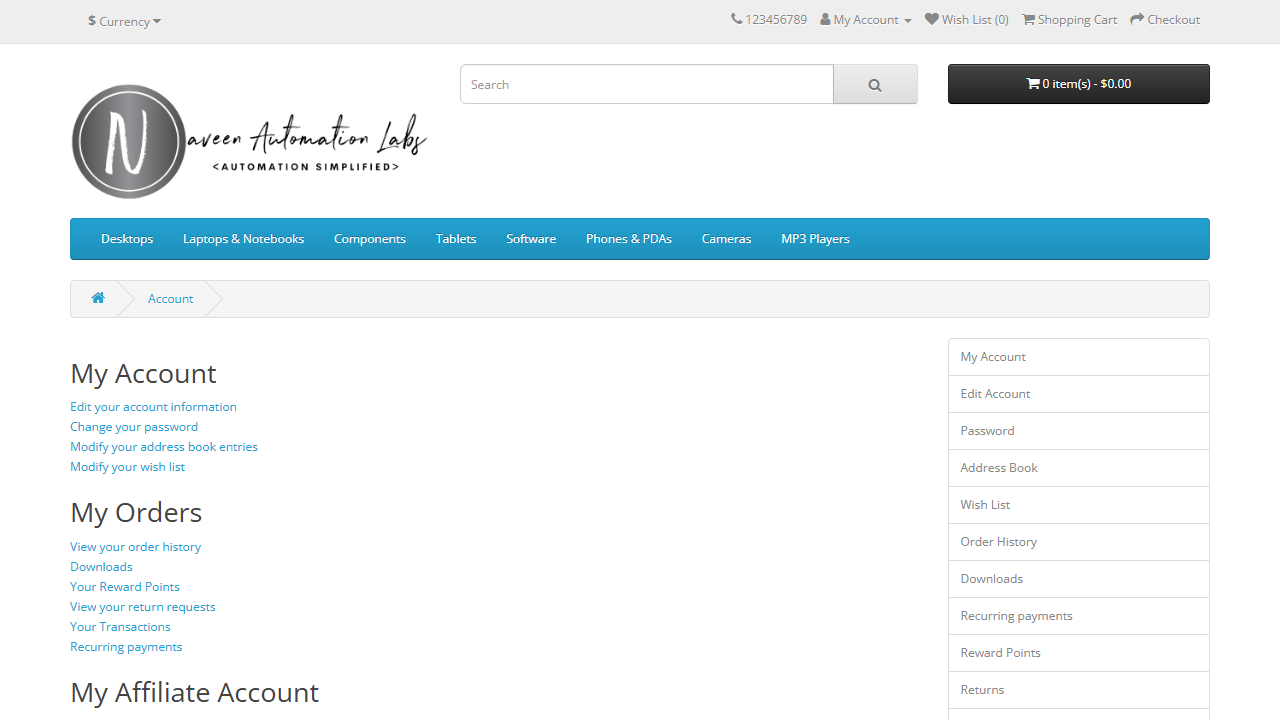
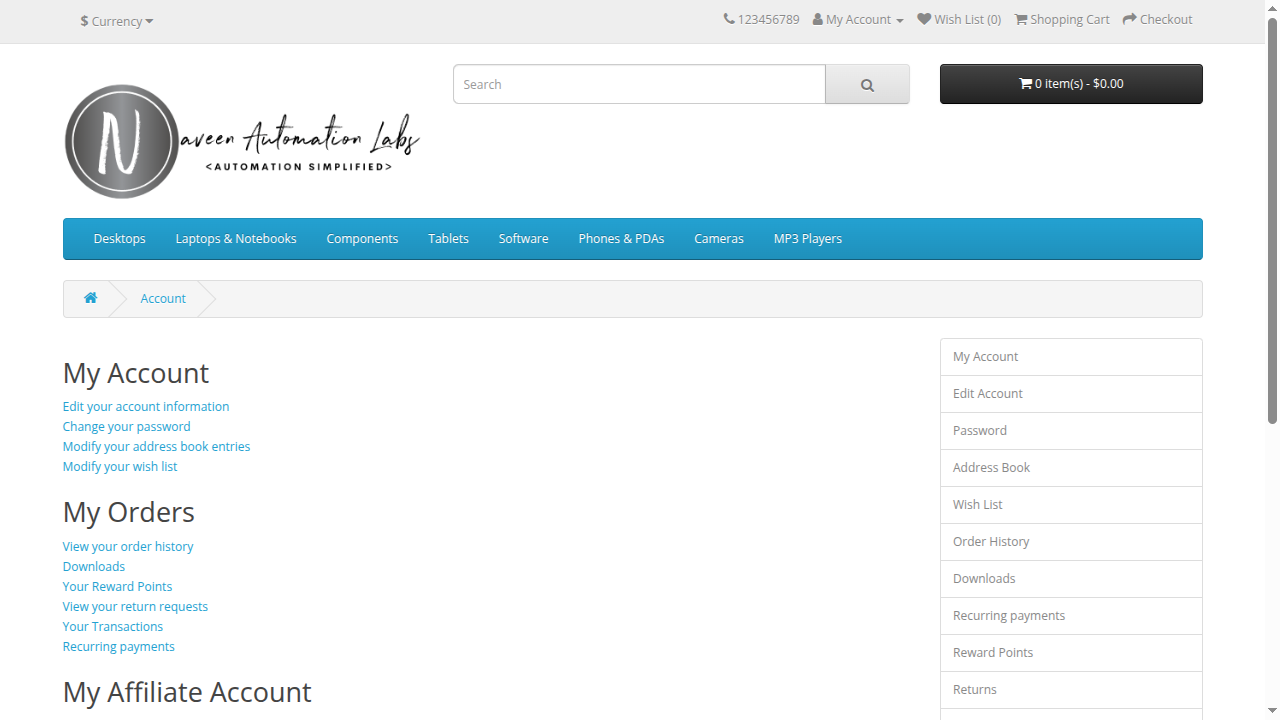
goplaylogin

diff --git a/nlabstest/goplaylogin.spec.ts b/nlabstest/goplaylogin.spec.ts
@@ -1,0 +1,27 @@
+import { test, expect, Browser, Page, Locator } from '@playwright/test';
+import { webkit, chromium, firefox } from 'playwright';
+
+test('Gologin test', async () => {
+    //const browser: Browser = await firefox.launch({ headless: false });
+    //const browser: Browser = await webkit.launch({ headless: false });
+    const browser: Browser = await chromium.launch();
+
+    const page: Page = await browser.newPage();
+    await page.goto("https://goplaybusiness.vercel.app/login");
+
+    await page.getByPlaceholder('Enter phone number').fill('3394191125');
+
+    // this is for login with email
+    // await page.getByRole('button', { name: 'Email' }).click();
+    // await page.locator('input.email-input[type="email"]').fill('testgoplay@yopmail.com');
+
+
+    await page.getByPlaceholder('Password').fill('helloworld');
+    await page.getByRole('button', { name: 'Login' }).click();
+
+    await expect(page).toHaveURL('https://goplaybusiness.vercel.app/home');
+
+    await page.screenshot({ path: 'homepage1.png' });
+
+    await browser.close();
+});
